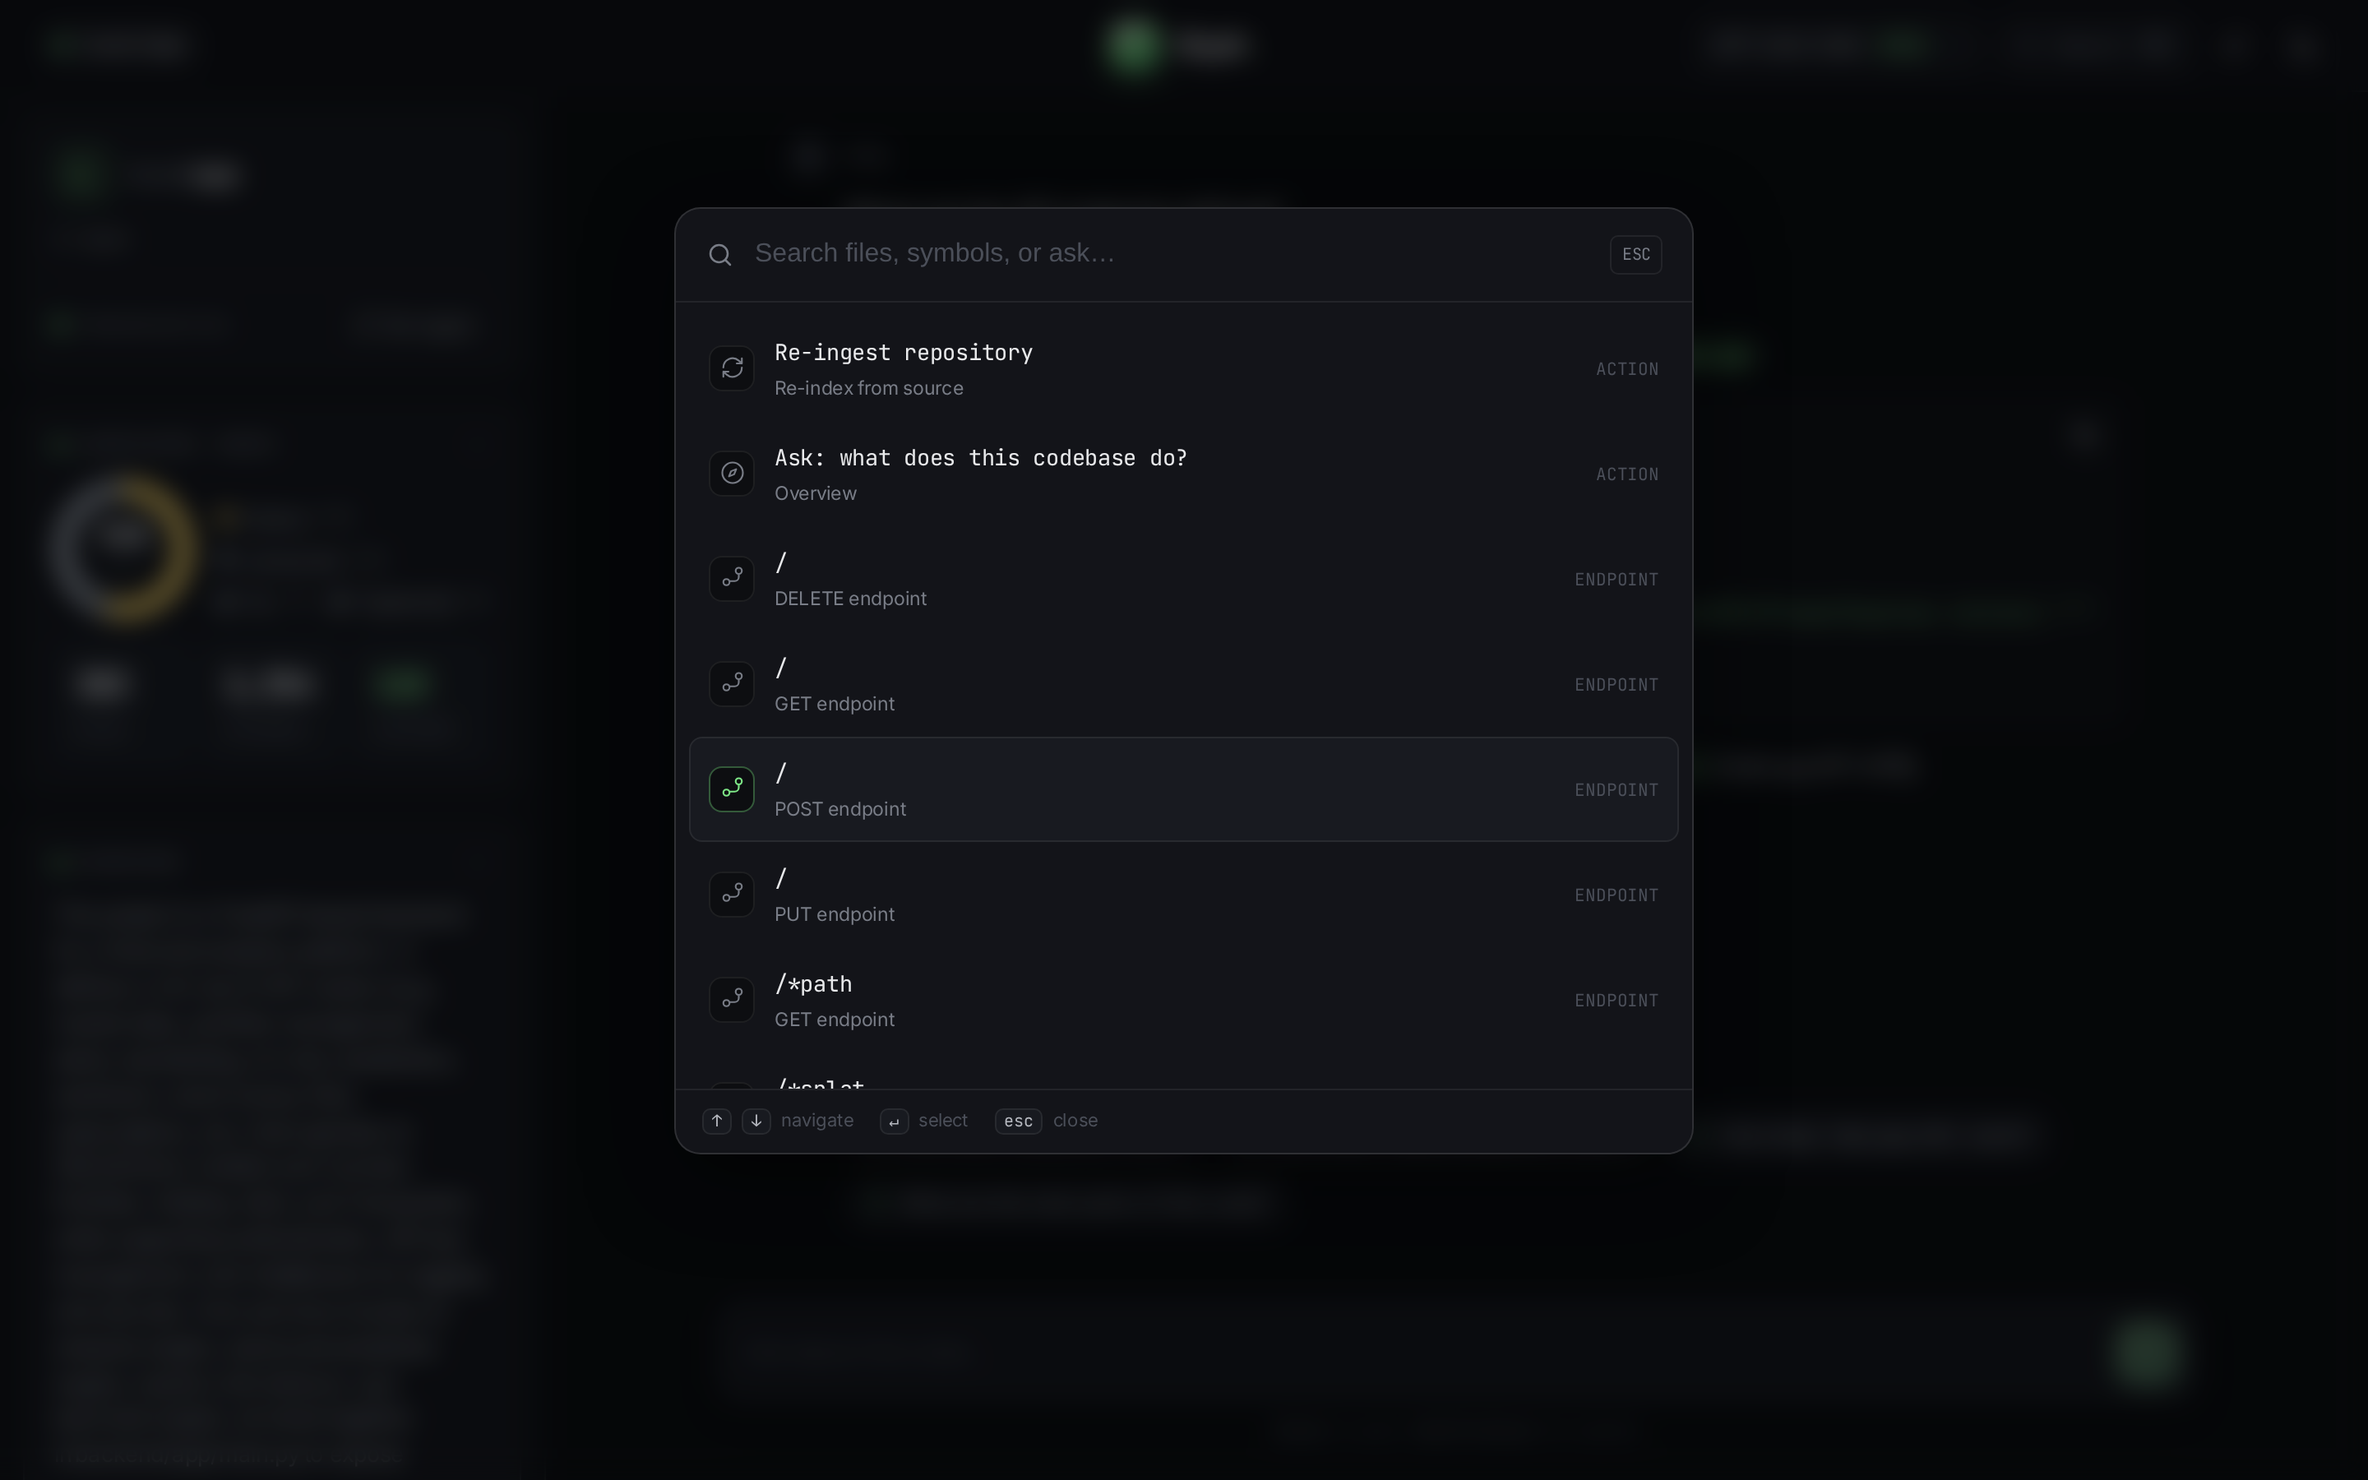
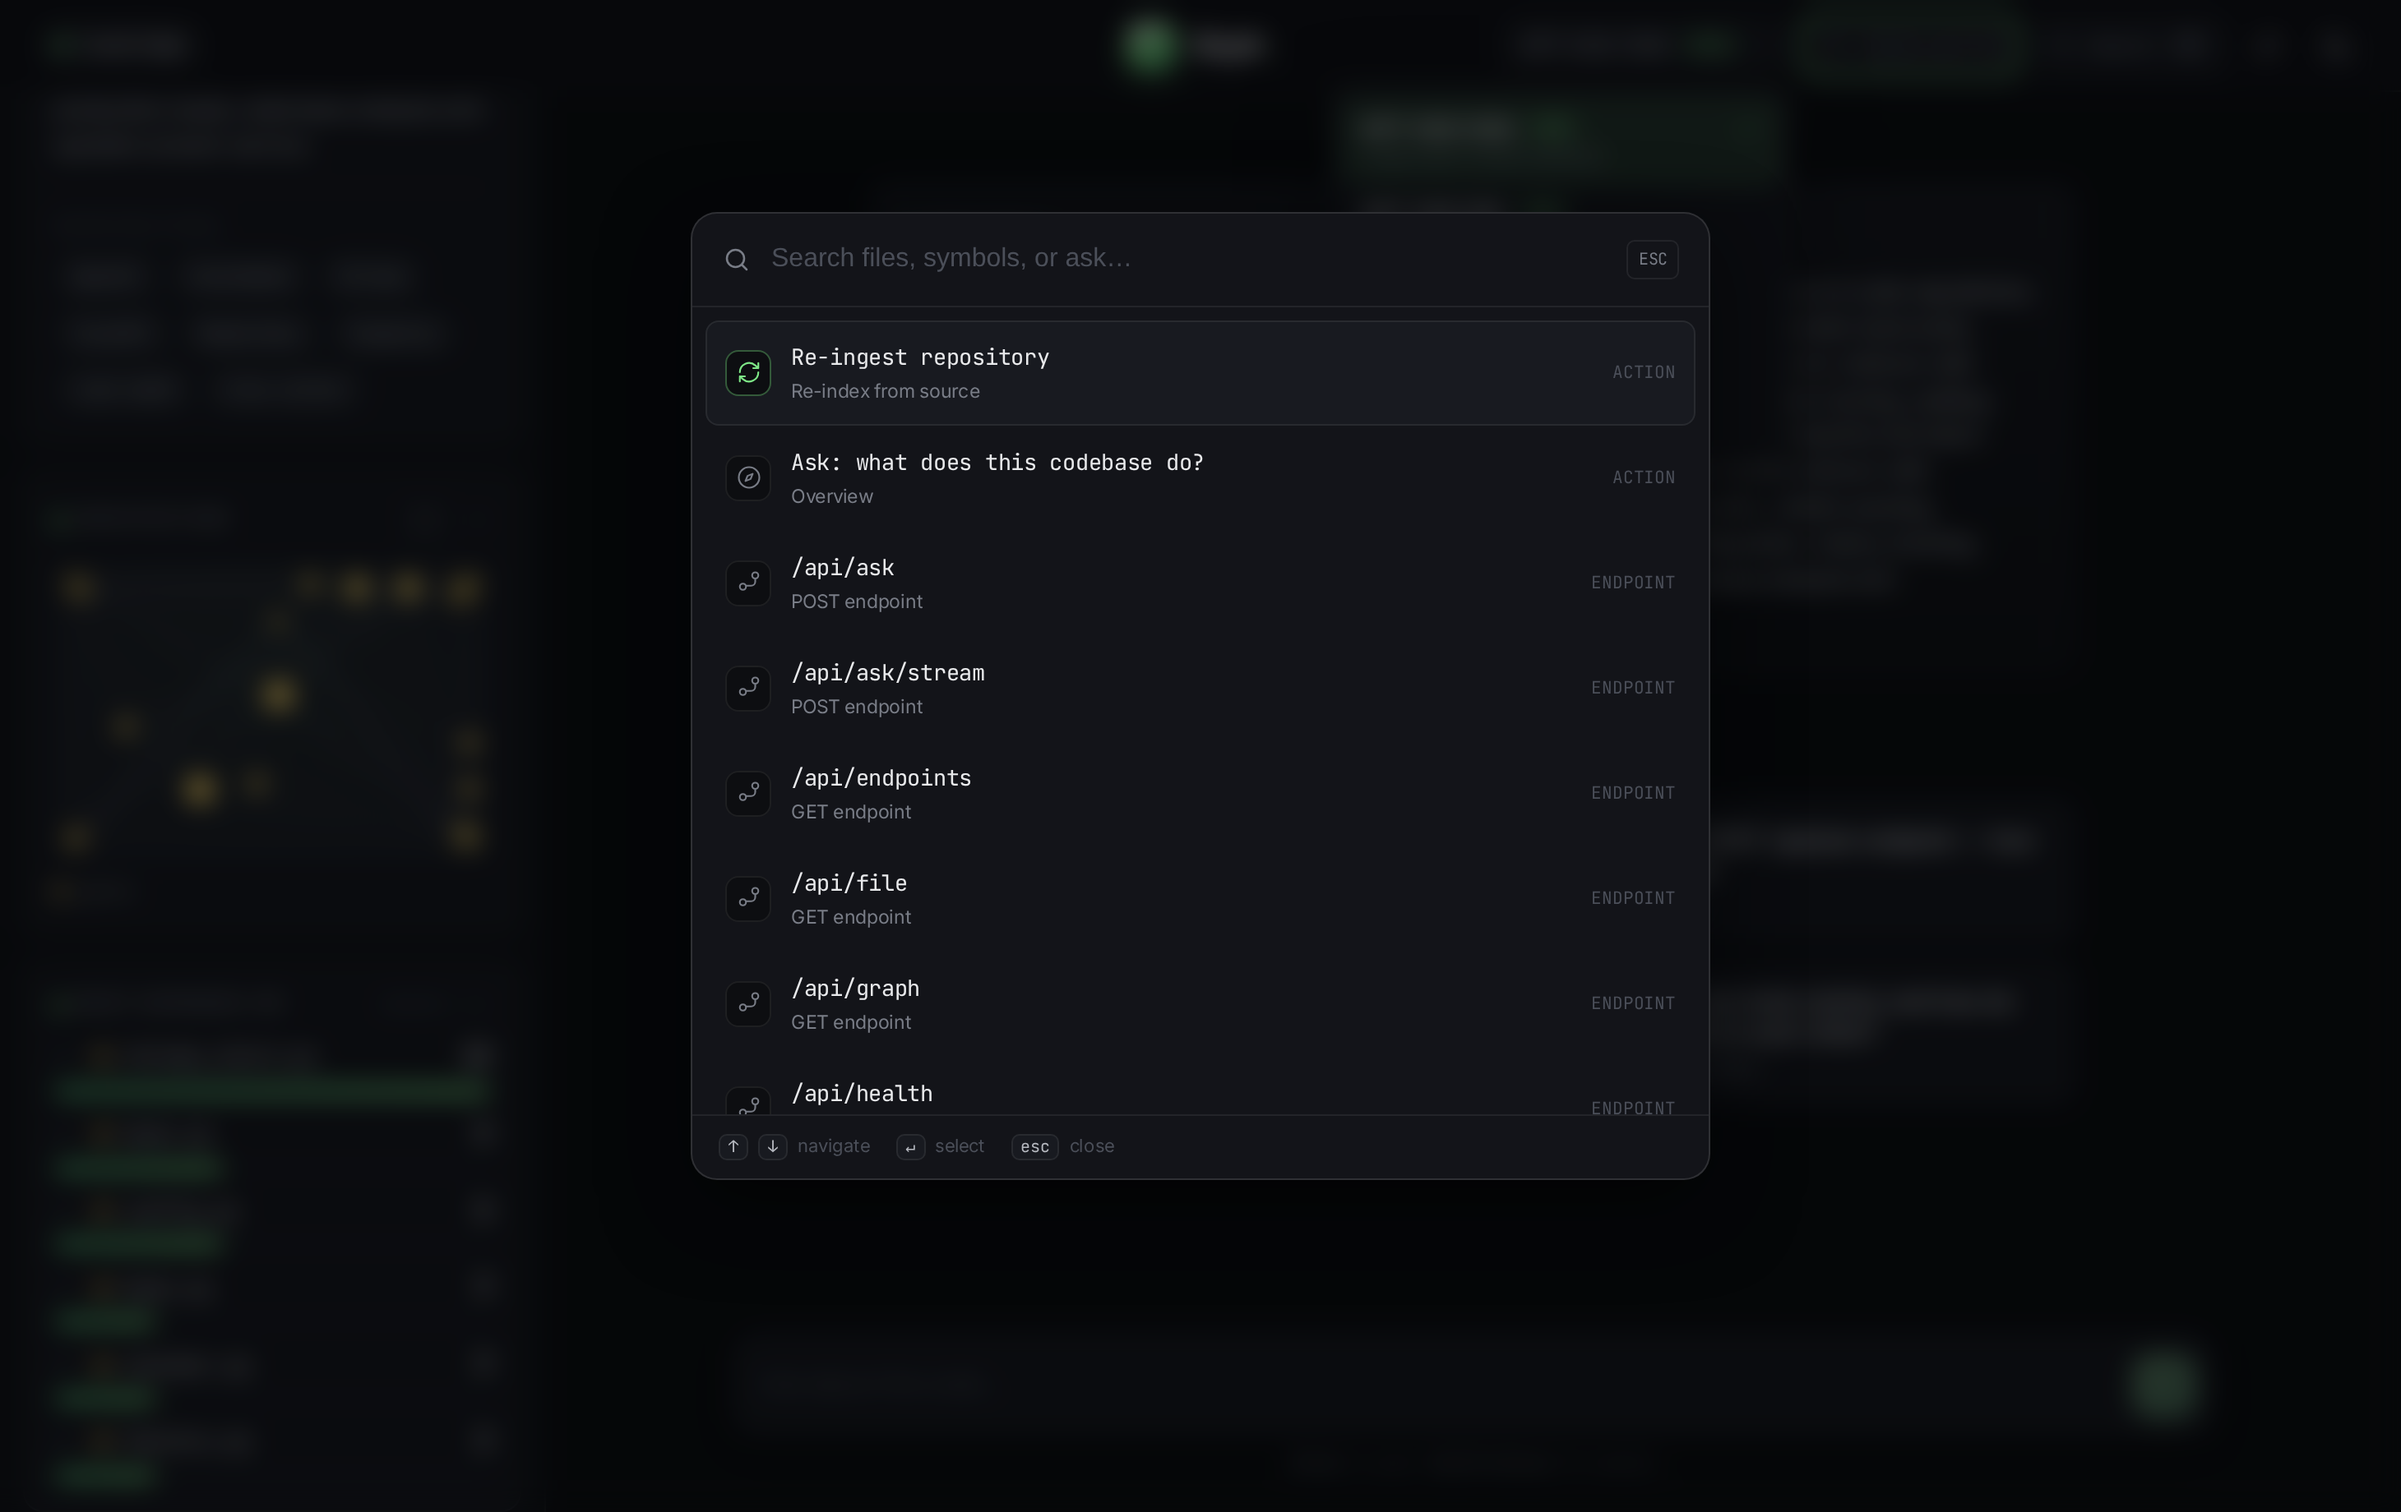
docs: refresh screenshots with the current UI and expand the gallery
Recaptured every screenshot from the running app so they match the
current product (the old ones predated the new controls and panel), and
added new ones for the standout views — 13 in total.

New/updated: grounded answer with citations, the code viewer beside the
intelligence panel, landing with the Fast/Careful indexing toggle, live
ingest progress, the workspace with repo-aware starter questions, the
code-intelligence card (real functions/classes/endpoints/frameworks), the
architecture graph and its expanded modal, most-depended-on files, the
language breakdown, the command palette, the model picker and the
observability query log. README screenshots section reworked into a
captioned gallery.

diff --git a/README.md b/README.md
@@ -119,12 +119,30 @@ architecture, data-flow, sequence and ER diagrams live in
 
 ## Screenshots
 
+**Grounded answer with `file:line` citations** — the core: ask in natural language, get an answer built only from the retrieved code, with clickable citations and the model/latency/tokens it used.
+
+![Grounded answer with citations](docs/screenshots/answer-citations.png)
+
+**Click a citation → the highlighted source**, beside the live "Project Intelligence" panel (real detected stack, code-intelligence counts, tailored starter questions).
+
+![Code viewer](docs/screenshots/code-viewer.png)
+
 | | |
 |---|---|
-| ![Landing](docs/screenshots/landing.png) | ![Workspace](docs/screenshots/workspace.png) |
-| ![Code viewer](docs/screenshots/code-viewer.png) | ![Command palette](docs/screenshots/command-palette.png) |
+| **Landing** — pick Fast/Careful indexing, or one-click a demo repo | **Live ingest** — clone → scan → chunk → embed, counting up |
+| ![Landing](docs/screenshots/landing.png) | ![Ingest progress](docs/screenshots/ingest-progress.png) |
+| **Workspace** — panel + chat with repo-aware starter questions | **Code intelligence** — real functions / classes / endpoints / frameworks |
+| ![Workspace](docs/screenshots/workspace.png) | ![Code intelligence](docs/screenshots/code-intelligence.png) |
+| **Architecture graph** — file dependency graph from real imports | **Expanded architecture** — full-screen, click a node to ask about it |
+| ![Architecture graph](docs/screenshots/architecture-graph.png) | ![Architecture modal](docs/screenshots/architecture-modal.png) |
+| **Most depended-on files** — ranked by import in-degree | **Language breakdown** — share of the codebase per language |
+| ![Most depended-on](docs/screenshots/top-files.png) | ![Languages](docs/screenshots/languages.png) |
+| **⌘K command palette** — jump to any symbol or endpoint | **Model picker** — free + cheapest-paid models, selectable per question |
+| ![Command palette](docs/screenshots/command-palette.png) | ![Model picker](docs/screenshots/model-picker.png) |
 
-_Landing · Workspace (chat + project panel) · Code viewer · ⌘K command palette._
+**Observability** — per-query log with retrieve/LLM latency split, tokens and cache hits.
+
+![Query log](docs/screenshots/query-log.png)
 
 ## RAG / LLM approach & decisions
 - **Chunking:** AST-aware via tree-sitter (by function/class) — see TECHNICAL_REPORT §1.1.
